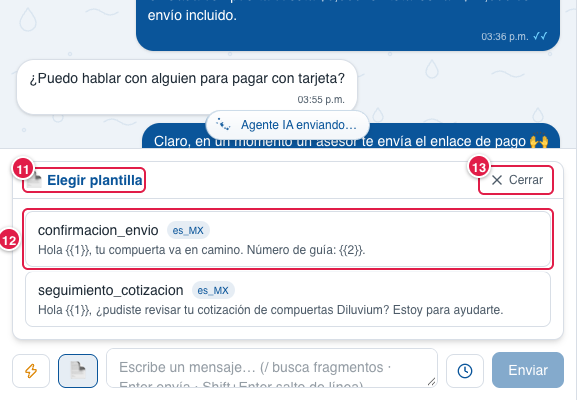
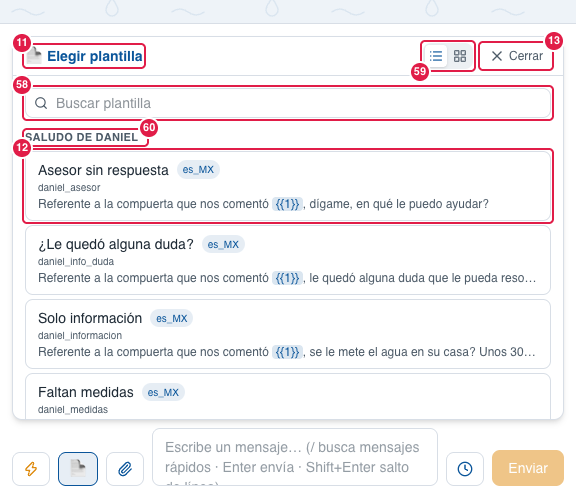
fix(plantillas): {{n}} legibles en modo oscuro y tarjetas de la cuadrícula alineadas arriba; capturas del mapa
- Selector 📄: los {{n}} en azul claro en modo oscuro; en cuadrícula el contenido empieza arriba.
- Mapa: rehechas 04-composer-programar, 04-composer-plantillas-lista y 04-composer-plantillas;
  nuevas 04-composer-plantillas-cuadricula y 04-composer-programar-plantilla (Bandeja › Caja para escribir).

diff --git a/app/(app)/dashboard/_components/template-picker.tsx b/app/(app)/dashboard/_components/template-picker.tsx
@@ -17,7 +17,7 @@ import { PICKER_TIME_PHRASE_TEMPLATES } from "@/lib/followups/cases";
 import { groupTemplates, templateSnippet, templateTitle } from "@/lib/templates/labels";
 import { usePersistentToggle } from "@/components/ui/use-persistent-toggle";
 
-const TOKEN_CLASS = "rounded bg-brand-navy/15 px-1 font-medium text-brand-navy";
+const TOKEN_CLASS = "rounded bg-brand-navy/15 px-1 font-medium text-brand-navy dark:bg-sky-300/15 dark:text-sky-300";
 
 /** Texto de la plantilla con los {{n}} resaltados. */
 function BodyWithTokens({ text }: { text: string }) {
@@ -219,7 +219,7 @@ export function TemplatePicker({
                           <button
                             type="button"
                             onClick={() => select(t)}
-                            className={`w-full min-w-0 rounded-md border px-3 py-2 text-left text-sm hover:border-brand-navy hover:bg-brand-navy/5 ${grid ? "h-full" : ""}`}
+                            className={`w-full min-w-0 rounded-md border px-3 py-2 text-left text-sm hover:border-brand-navy hover:bg-brand-navy/5 ${grid ? "flex h-full flex-col" : ""}`}
                           >
                             <span className="flex min-w-0 items-center gap-2">
                               <span className="truncate font-medium">{title}</span>

diff --git a/docs/mapa-crm.md b/docs/mapa-crm.md
@@ -388,8 +388,10 @@ y se mandan fotos y videos de la Biblioteca (📎 › Multimedia); cerrada, solo
 ![Menú al escribir "/"](mapa-crm/04-composer-slash.png)
 ![Ventana del ⚡ Mensajes rápidos](mapa-crm/04-composer-rapidos.png)
 ![Elegir plantilla](mapa-crm/04-composer-plantillas-lista.png)
+![Elegir plantilla en cuadrícula](mapa-crm/04-composer-plantillas-cuadricula.png)
 ![Llenar y enviar una plantilla](mapa-crm/04-composer-plantillas.png)
 ![Programar mensaje](mapa-crm/04-composer-programar.png)
+![Programar con la ventana cerrada: Texto apagado, solo plantilla](mapa-crm/04-composer-programar-plantilla.png)
 ![Ventana de 24 h cerrada](mapa-crm/04-composer-cerrada.png)
 ![Seguimiento del Agente IA: píldora y su burbuja](mapa-crm/04-composer-seguimiento.png)
 ![Seguimiento sugerido (Pausar agente puesto a mano)](mapa-crm/04-composer-seguimiento-sugerido.png)
